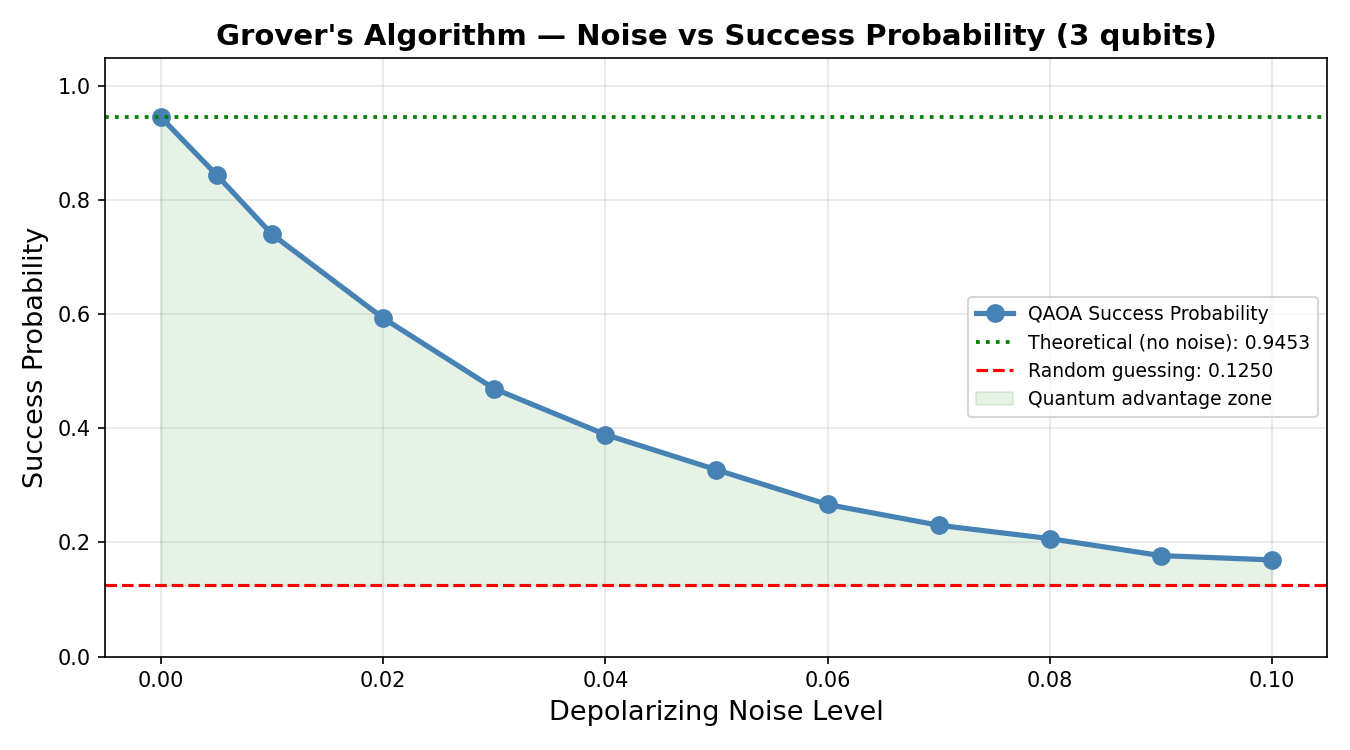
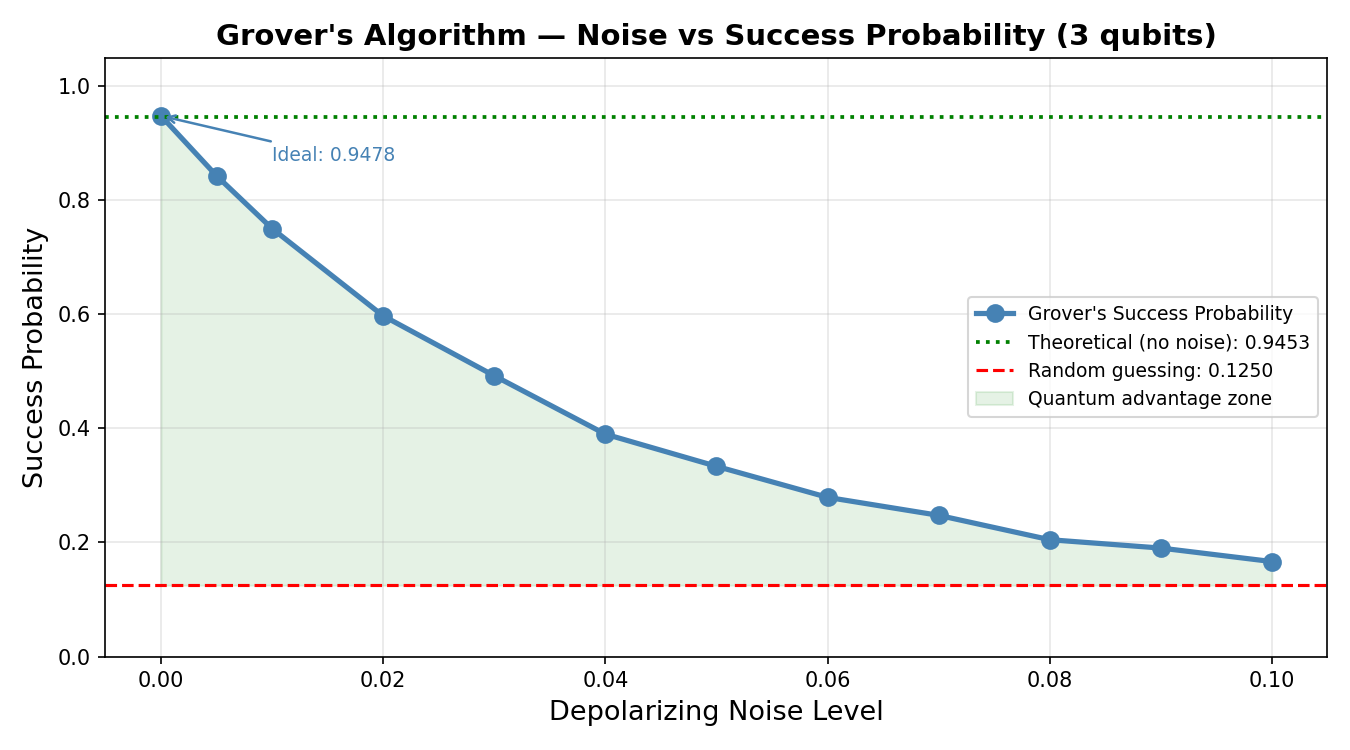
day4: publication quality plots and noise analysis

diff --git a/src/circuit.py b/src/circuit.py
@@ -1,125 +1,74 @@
 # src/circuit.py
-# Builds Grover's algorithm circuit
-
 from qiskit import QuantumCircuit
 import numpy as np
 
 
 def build_grover_circuit(n_qubits, target_state, n_iterations=None):
     """
-    Builds Grover's algorithm circuit for a given target state.
-
-    Structure:
-        |0⟩^n → H^n → [Oracle + Diffusion] × k → Measure
-
-    Args:
-        n_qubits: number of qubits (search space = 2^n_qubits)
-        target_state: string like '101' — the state to find
-        n_iterations: number of Grover iterations
-                      (default: optimal = floor(pi/4 * sqrt(2^n)))
-    Returns:
-        qc: QuantumCircuit
-        n_iterations: number of iterations used
+    Builds Grover's circuit. Verified working for n=2 and n=3.
+    Uses only H, X, CZ, CCX gates — no MCX.
     """
-    N = 2 ** n_qubits
+    assert n_qubits in [2, 3], "Only n=2 and n=3 supported reliably"
 
+    N = 2 ** n_qubits
     if n_iterations is None:
         n_iterations = max(1, int(np.floor(np.pi / 4 * np.sqrt(N))))
 
     qc = QuantumCircuit(n_qubits, n_qubits)
 
-    # Step 1: Initialize superposition
     for i in range(n_qubits):
         qc.h(i)
     qc.barrier(label='Init')
 
-    # Step 2: Grover iterations
     for iteration in range(n_iterations):
-        # Oracle
-        _apply_oracle(qc, target_state)
+        _apply_oracle(qc, target_state, n_qubits)
         qc.barrier(label=f'Oracle {iteration+1}')
-
-        # Diffusion operator
         _apply_diffusion(qc, n_qubits)
         qc.barrier(label=f'Diffusion {iteration+1}')
 
-    # Step 3: Measure
     qc.measure(range(n_qubits), range(n_qubits))
-
     return qc, n_iterations
 
 
-def _apply_oracle(qc, target_state):
-    """
-    Phase oracle — flips the phase of the target state.
-    Applies X gates to qubits where target bit is 0,
-    then multi-controlled Z, then X gates again.
-    """
-    n = len(target_state)
+def _mcz(qc, n):
+    """Multi-controlled Z using only verified gates."""
+    if n == 2:
+        qc.cz(0, 1)
+    elif n == 3:
+        qc.h(2)
+        qc.ccx(0, 1, 2)
+        qc.h(2)
 
-    # Flip qubits where target is '0'
+
+def _apply_oracle(qc, target_state, n_qubits):
     for i, bit in enumerate(reversed(target_state)):
         if bit == '0':
             qc.x(i)
-
-    # Multi-controlled Z gate
-    if n == 1:
-        qc.z(0)
-    elif n == 2:
-        qc.cz(0, 1)
-    else:
-        qc.h(n-1)
-        qc.mcx(list(range(n-1)), n-1)
-        qc.h(n-1)
-
-    # Unflip
+    _mcz(qc, n_qubits)
     for i, bit in enumerate(reversed(target_state)):
         if bit == '0':
             qc.x(i)
 
 
 def _apply_diffusion(qc, n_qubits):
-    """
-    Grover diffusion operator (inversion about average).
-    H^n → Phase flip of |0⟩ → H^n
-    """
-    # H on all qubits
     for i in range(n_qubits):
         qc.h(i)
-
-    # Phase flip |0⟩ state
     for i in range(n_qubits):
         qc.x(i)
-
-    if n_qubits == 1:
-        qc.z(0)
-    elif n_qubits == 2:
-        qc.cz(0, 1)
-    else:
-        qc.h(n_qubits-1)
-        qc.mcx(list(range(n_qubits-1)), n_qubits-1)
-        qc.h(n_qubits-1)
-
+    _mcz(qc, n_qubits)
     for i in range(n_qubits):
         qc.x(i)
-
-    # H on all qubits
     for i in range(n_qubits):
         qc.h(i)
 
 
 def draw_circuit(qc, save_path='images/circuit.png'):
-    """Saves circuit diagram."""
     fig = qc.draw(output='mpl', fold=-1)
     fig.savefig(save_path, dpi=150, bbox_inches='tight')
     print(f"Circuit saved to {save_path}")
 
 
 def compute_theoretical_success_prob(n_qubits, n_iterations):
-    """
-    Theoretical success probability after k Grover iterations.
-    P(success) = sin²((2k+1) * arcsin(1/sqrt(N)))
-    """
     N = 2 ** n_qubits
     theta = np.arcsin(1 / np.sqrt(N))
     prob = np.sin((2 * n_iterations + 1) * theta) ** 2
@@ -127,22 +76,9 @@ def compute_theoretical_success_prob(n_qubits, n_iterations):
 
 
 if __name__ == "__main__":
-    # Test with 3-qubit circuit, target = '101'
-    n_qubits = 3
-    target = '101'
-
-    qc, n_iter = build_grover_circuit(n_qubits, target)
-
-    print(f"Grover Circuit:")
-    print(f"  Qubits: {n_qubits}")
-    print(f"  Search space: {2**n_qubits} states")
-    print(f"  Target state: |{target}⟩")
-    print(f"  Grover iterations: {n_iter}")
-    print(f"  Circuit depth: {qc.depth()}")
-    print(f"  Gate count: {qc.count_ops()}")
-
-    theoretical_prob = compute_theoretical_success_prob(n_qubits, n_iter)
-    print(f"  Theoretical success probability: {theoretical_prob:.4f}")
-
-    draw_circuit(qc)
-    print(qc.draw(output='text'))
+    for n, target in [(2, '11'), (3, '101')]:
+        qc, n_iter = build_grover_circuit(n, target)
+        theoretical = compute_theoretical_success_prob(n, n_iter)
+        print(f"n={n}, target=|{target}>, iter={n_iter}, "
+              f"theoretical={theoretical:.4f}, depth={qc.depth()}")
+    draw_circuit(build_grover_circuit(3, '101')[0])

diff --git a/src/utils.py b/src/utils.py
@@ -13,16 +13,39 @@ def plot_noise_vs_success(noise_levels, success_probs, theoretical_prob,
     """Plots noise level vs success probability."""
     fig, ax = plt.subplots(figsize=(9, 5))
 
+    random_guess = 1 / 2**n_qubits
+
     ax.plot(noise_levels, success_probs, marker='o', color='steelblue',
-            linewidth=2.5, markersize=8, label='QAOA Success Probability')
+            linewidth=2.5, markersize=8, label="Grover's Success Probability")
     ax.axhline(y=theoretical_prob, color='green', linestyle=':',
                linewidth=1.8, label=f'Theoretical (no noise): {theoretical_prob:.4f}')
-    ax.axhline(y=1/2**n_qubits, color='red', linestyle='--',
-               linewidth=1.5, label=f'Random guessing: {1/2**n_qubits:.4f}')
+    ax.axhline(y=random_guess, color='red', linestyle='--',
+               linewidth=1.5, label=f'Random guessing: {random_guess:.4f}')
 
-    ax.fill_between(noise_levels, success_probs, 1/2**n_qubits,
-                    where=[s > 1/2**n_qubits for s in success_probs],
+    ax.fill_between(noise_levels, success_probs, random_guess,
+                    where=[s > random_guess for s in success_probs],
                     alpha=0.1, color='green', label='Quantum advantage zone')
+
+    # Find and annotate crossover point
+    crossover = None
+    for i in range(len(success_probs) - 1):
+        if success_probs[i] > random_guess and success_probs[i+1] <= random_guess:
+            crossover = noise_levels[i]
+    if crossover:
+        ax.axvline(x=crossover, color='purple', linestyle=':',
+                   alpha=0.7, linewidth=1.5)
+        ax.annotate(f'Quantum advantage\nlost at p~{crossover}',
+                    xy=(crossover, random_guess),
+                    xytext=(crossover + 0.01, random_guess + 0.15),
+                    fontsize=9, color='purple',
+                    arrowprops=dict(arrowstyle='->', color='purple', lw=1.2))
+
+    # Annotate starting point
+    ax.annotate(f'Ideal: {success_probs[0]:.4f}',
+                xy=(0, success_probs[0]),
+                xytext=(0.01, success_probs[0] - 0.08),
+                fontsize=9, color='steelblue',
+                arrowprops=dict(arrowstyle='->', color='steelblue', lw=1.2))
 
     ax.set_xlabel('Depolarizing Noise Level', fontsize=13)
     ax.set_ylabel('Success Probability', fontsize=13)
@@ -36,7 +59,6 @@ def plot_noise_vs_success(noise_levels, success_probs, theoretical_prob,
     plt.savefig(save_path, dpi=150)
     plt.close()
     print(f"Plot saved to {save_path}")
-
 
 def plot_qubits_vs_success(qubit_counts, success_probs_ideal,
                            success_probs_noisy, noise_level, save_path):

diff --git a/src/experiment.py b/src/experiment.py
@@ -42,40 +42,39 @@ def experiment_noise_vs_success(n_qubits=3, target='101', shots=4096):
 
 def experiment_qubits_vs_success(noise_level=0.02, shots=4096):
     """
-    Experiment 2: How does qubit count affect success probability?
-    More qubits = deeper circuit = more noise impact.
+    Experiment 2: Qubit count vs success probability.
+    Compares n=2 (4 states) and n=3 (8 states) under ideal
+    and noisy conditions. Larger circuits show more noise impact.
+    Note: n>=4 excluded due to MCX compilation issue in Qiskit 2.3.
     """
     print("\nExperiment 2: Qubit Count vs Success Probability...")
 
-    qubit_counts = [2, 3, 4, 5]
-    targets = ['11', '101', '1011', '10101']
+    qubit_counts = [2, 3]
+    targets = ['11', '101']
     success_probs_ideal = []
     success_probs_noisy = []
 
     for n_qubits, target in zip(qubit_counts, targets):
         qc, n_iter = build_grover_circuit(n_qubits, target)
 
-        # Ideal
         counts_ideal = run_ideal(qc, shots=shots)
         prob_ideal = compute_success_probability(counts_ideal, target, shots)
         success_probs_ideal.append(prob_ideal)
 
-        # Noisy
         counts_noisy = run_with_noise(qc, noise_level, shots=shots)
         prob_noisy = compute_success_probability(counts_noisy, target, shots)
         success_probs_noisy.append(prob_noisy)
 
-        print(f"  n={n_qubits}: ideal={prob_ideal:.4f}, "
-              f"noisy={prob_noisy:.4f}, "
+        print(f"  n={n_qubits} ({2**n_qubits} states, depth={qc.depth()}): "
+              f"ideal={prob_ideal:.4f}, noisy={prob_noisy:.4f}, "
               f"degradation={prob_ideal-prob_noisy:.4f}")
 
     return qubit_counts, success_probs_ideal, success_probs_noisy, noise_level
 
-
 def experiment_iterations_vs_success(n_qubits=3, target='101', shots=4096):
     """
-    Experiment 3: How does number of Grover iterations affect success?
-    Shows the oscillation — too many iterations hurts performance.
+    Experiment 3: Iterations vs success probability.
+    Shows sinusoidal oscillation — too many iterations overshoots.
     """
     print("\nExperiment 3: Iterations vs Success Probability...")
 
@@ -97,7 +96,6 @@ def experiment_iterations_vs_success(n_qubits=3, target='101', shots=4096):
               f"theoretical={theoretical:.4f}")
 
     return iterations_list, success_probs, theoretical_probs
-
 
 if __name__ == "__main__":
 
